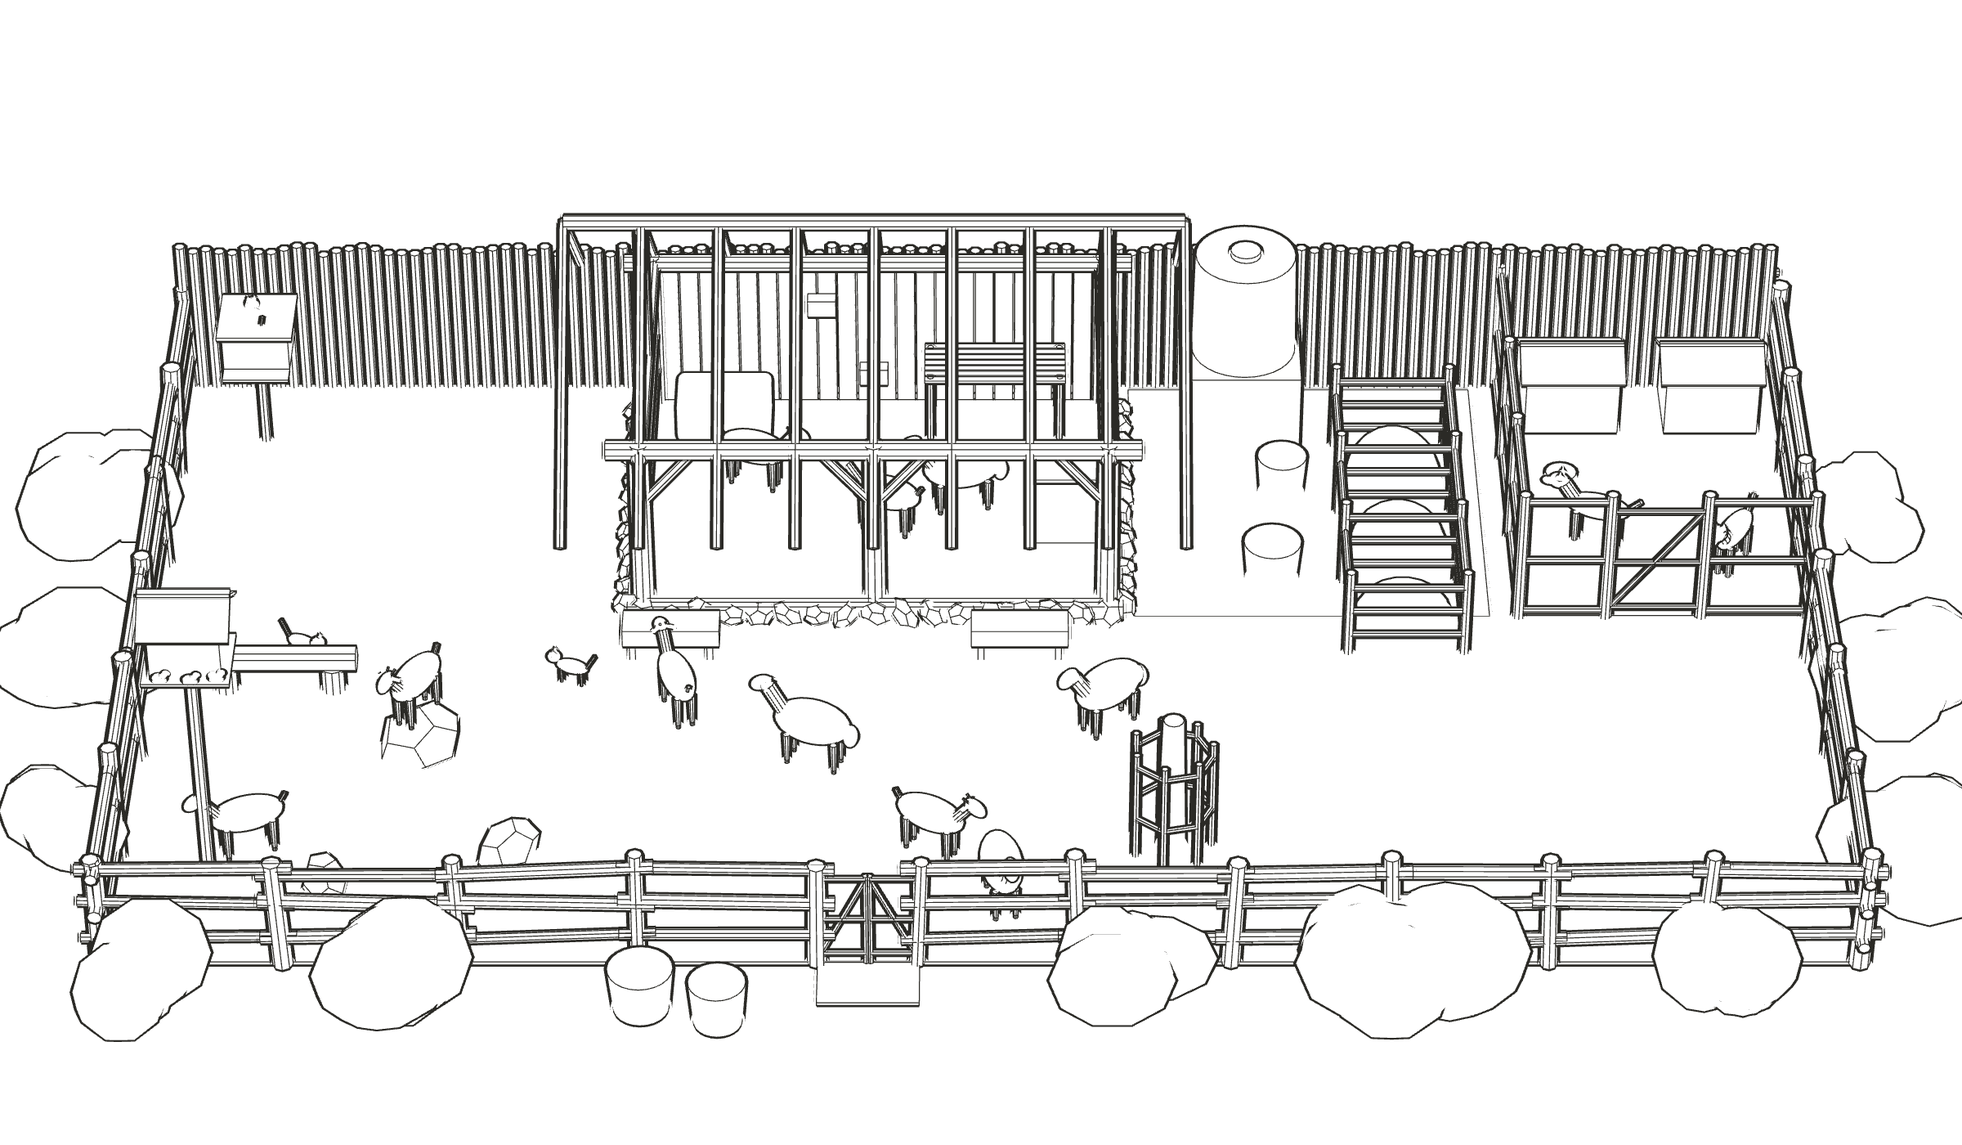
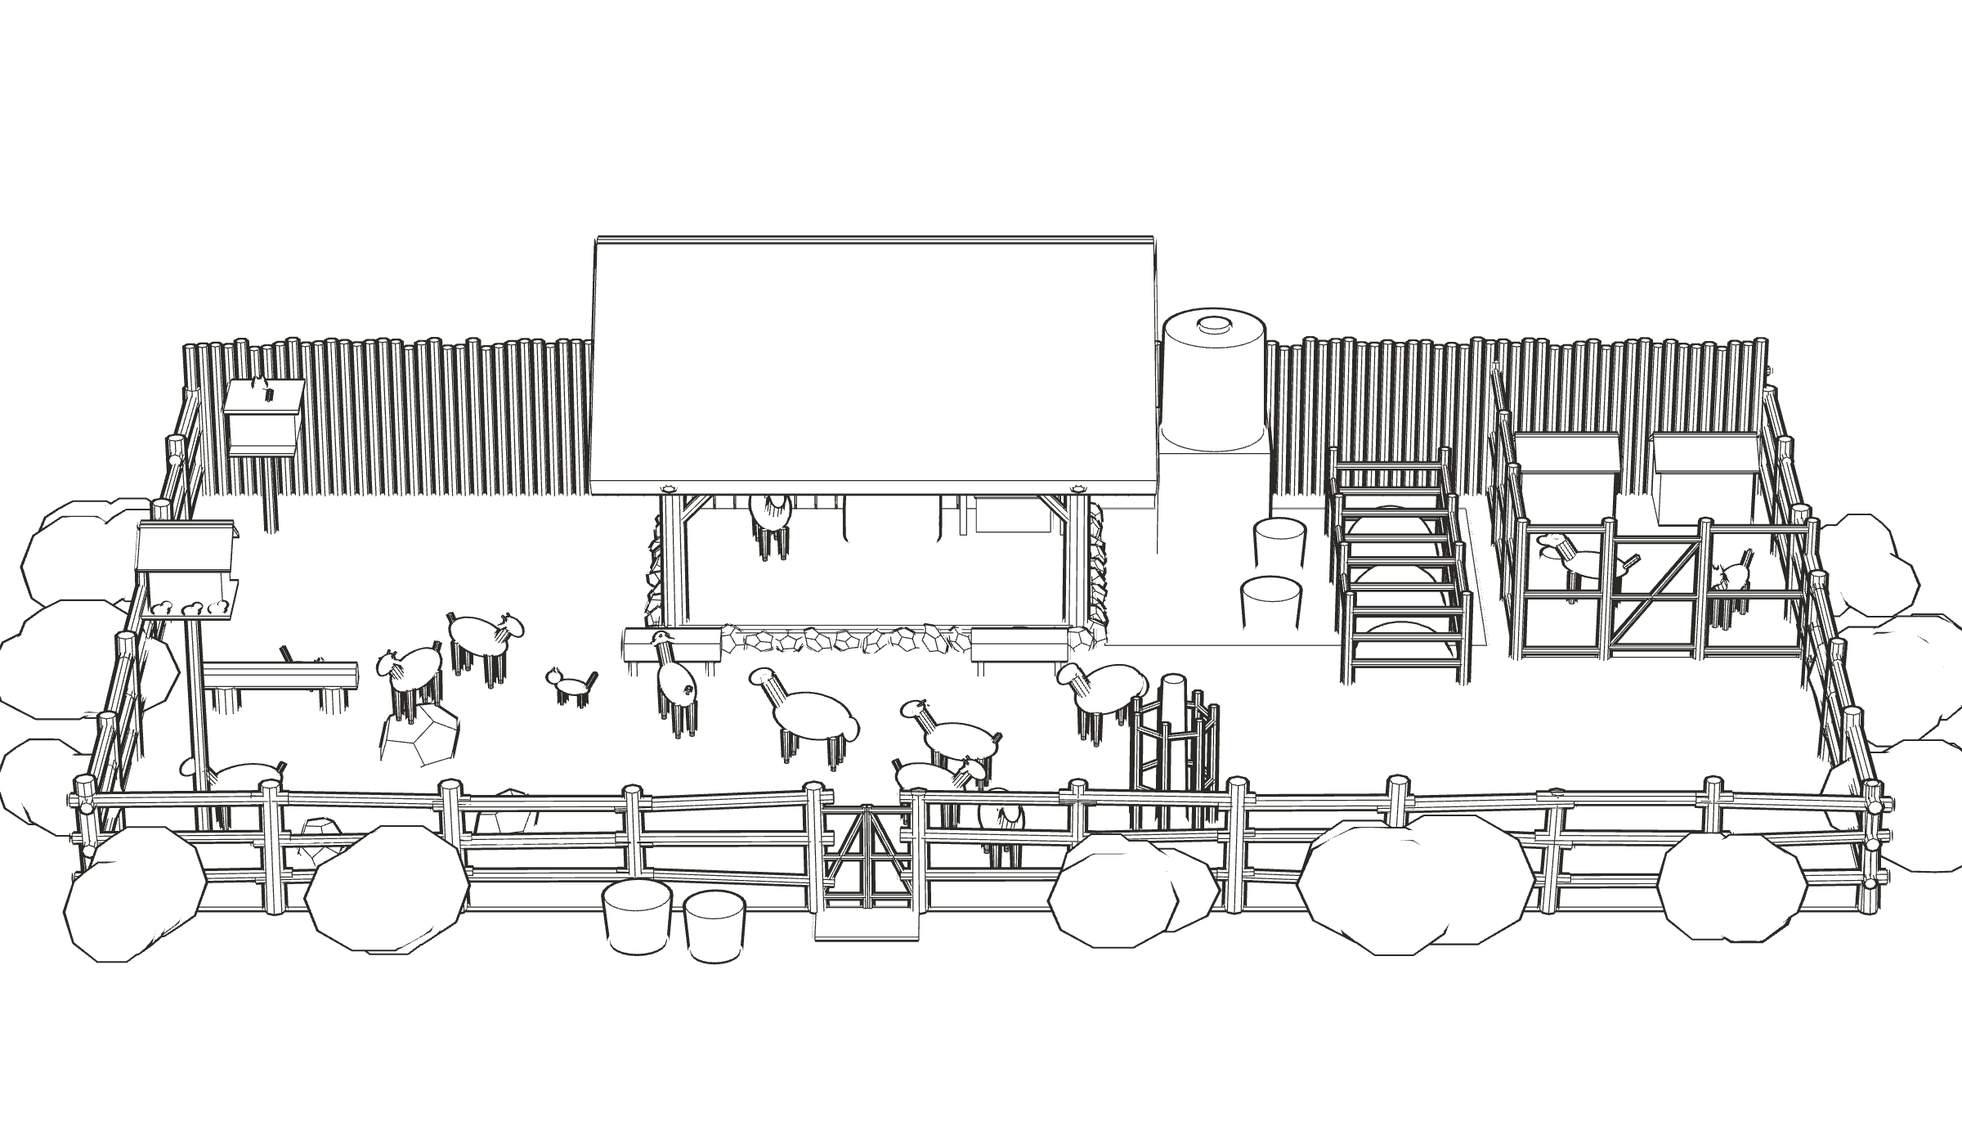
feat(livestock): the shed copied from the photo's, one sheep inside, thatch on; D-045
The founder asked for the shed to look exactly like the reference photo's, with
one sheep. It is now 4.4 x 3.0 m with two braced corner posts, a boarded back and
side, the west end open behind one rail, a straw bale and a plank table with a
basket inside, and the whole shaggy thatch on; the 3D looks lower, at 26 degrees,
to see under the eaves as the photo does.

Claude-Session: https://claude.ai/code/session_01S6J7HfcfzMCDbDDKUuUjeQ

Changed region(s): [[0.0, 0.1843, 1.0, 0.8907], [0.0, 0.5221, 0.0312, 0.5529]]

diff --git a/scripts/site/render/livestock.html b/scripts/site/render/livestock.html
@@ -3,10 +3,11 @@
   /en/livestock's 3D, in the pattern of the studio's (scripts/studio/render/room.html): the livestock yard (D-039 to
   D-044) seen straight on from the paddock, on the white page. Built from src/components/livestock/livestock.json (the
   numbers the 2D draws): one outline, the palisade at the back and one post-and-rail fence round the rest, its rails
-  thick, crooked and lashed with rope as the founder's photo's; inside it the herd's shed, as the photo's shed: dark
-  weathered boards at the back and the east end, the west side open behind two rails, heavy front posts braced to the
-  eaves beam, the steep gable's rafters standing with the thatch off (as the studio's roof), straw, a straw bale, a
-  slatted feed table, a lockable feed bin and the mineral boxes; the village yard with troughs, climbing stones, the
+  thick, crooked and lashed with rope as the founder's photo's; inside it the herd's shed, copied from the photo's
+  shed (D-045): dark weathered boards at the back and the east end, the west end open behind one rail, two heavy
+  corner posts braced to the eaves beam, a steep shaggy thatch on the gable with its ends open on the rafters, and
+  under it one sheep on the straw, a straw bale, a plank table with a basket over a lidded crate, the mineral boxes.
+  The view is low enough to see under the eaves into the shed, as the photo does; the village yard with troughs, climbing stones, the
   guarded shade tree, the dovecote, the cats' house and a bench; the tank, the fodder baskets, the compost bays and
   the guard dogs' run in the back east corner; shrubs round the outside. 6 goats, 4 sheep, 2 dogs, 3 cats and doves,
   in soft overcast light. The page's hero is the founder's photo (D-042), not a render. Rendered three ways:
@@ -168,7 +169,7 @@ function mat(name) {
       fodder: () => std({ color: "#5d7d3a", roughness: 0.9 }),
       trunk: () => std({ color: "#6d5a48", roughness: 0.9 }),
       leaf: () => std({ color: "#55663f", roughness: 0.95, flatShading: true }),
-      thatch: () => std({ map: T.thatch, color: "#a39684", roughness: 1, side: THREE.DoubleSide }), // grey-brown, weathered, as the photo's
+      thatch: () => std({ map: T.thatch, color: "#cbbca5", roughness: 1, side: THREE.DoubleSide }), // grey-brown, weathered, as the photo's
       lawn: () => std({ map: T.grass, roughness: 1 }),
       face: () => std({ color: "#211c19", roughness: 0.85 }),
       horn: () => std({ color: "#7d6e5e", roughness: 0.6 }),
@@ -262,8 +263,9 @@ if (HERO) {
   blk(-L + 0.02, -W + WALL, L - WALL, W, FL, LIT, "litter")
 }
 
-// ------------------------------------------------------------ the herd's shed, as the founder's photo's: wide dark weathered boards set upright at the back and
-// the east end, the west side open behind two rails, heavy barked posts along the open front braced to the eaves beam
+// ------------------------------------------------------------ the herd's shed, copied from the founder's photo's: wide dark weathered boards set upright at the
+// back and the east end, the west end open behind one rail, two heavy barked corner posts along the open front braced
+// to the eaves beam
 function rails(x0, z0, x1, z1, y0, heights, r = 0.035) {
   for (const h of heights) pipe([x0, y0 + h, z0], [x1, y0 + h, z1], r, "pole", 7)
 }
@@ -273,33 +275,33 @@ function gate(x0, z0, x1, z1, y0, h) { // shut: a frame of thin poles with a dia
   pipe([x0, y0 + 0.12, z0], [x1, y0 + h - 0.04, z1], 0.025, "pole", 6)
 }
 {
-  const plank = (x0, z0, x1, z1) => blk(x0, z0, x1, z1, FL, EAVE - 0.04 + (rnd() - 0.5) * 0.06, "plank")
-  for (let x = -L + 0.18; x < L - 0.05; x += 0.21) plank(x, -W, Math.min(x + 0.19, L), -W + WALL)
-  for (let z = -W + WALL; z < W - 0.15; z += 0.21) plank(L - WALL, z, L, Math.min(z + 0.19, W - 0.15))
-  // the posts: the four corners and the middle of the front, heavy and barked; the eaves beam and the plates
-  const posts = [-L + 0.09, 0, L - 0.09]
-  for (const x of posts) pole(x, W - 0.09, 0.11, FL, EAVE + 0.18, 9)
-  for (const x of [-L + 0.09, L - 0.09]) pole(x, -W + 0.09, 0.1, FL, EAVE + 0.12, 9)
-  pipe([-L - 0.25, EAVE + 0.1, W - 0.09], [L + 0.25, EAVE + 0.1, W - 0.09], 0.1, "pole", 9)
-  pipe([-L - 0.2, EAVE + 0.04, -W + 0.09], [L + 0.2, EAVE + 0.04, -W + 0.09], 0.09, "pole", 9)
-  for (const x of [-L + 0.09, L - 0.09]) pipe([x, EAVE + 0.04, -W], [x, EAVE + 0.04, W], 0.08, "pole", 9)
-  for (const x of posts) for (const s of [-1, 1]) { // a knee brace each side of each front post, as the photo's
-    if ((x === posts[0] && s < 0) || (x === posts.at(-1) && s > 0)) continue
-    pipe([x, EAVE - 0.6, W - 0.09], [x + s * 0.55, EAVE + 0.06, W - 0.09], 0.045, "pole", 6)
-  }
-  // the open west side: two barked rails between the corner posts
-  rails(-L + 0.09, -W + 0.09, -L + 0.09, W - 0.09, FL, P.rails, 0.05)
-  // inside, as the photo's: the straw bale, the slatted feed table with hay, the lockable feed bin, the mineral boxes
+  const plank = (x0, z0, x1, z1) => blk(x0, z0, x1, z1, FL, EAVE - 0.04 + (rnd() - 0.5) * 0.08, "plank")
+  for (let x = -L + 0.2; x < L - 0.05; x += 0.22) plank(x, -W, Math.min(x + 0.2, L), -W + WALL)
+  for (let z = -W + WALL; z < W - 0.2; z += 0.22) plank(L - WALL, z, L, Math.min(z + 0.2, W - 0.2))
+  // the corner posts, heavy and barked; the eaves beam along the front, the plate along the back, the tie beams
+  for (const [x, z] of [[-L + 0.1, W - 0.1], [L - 0.1, W - 0.1], [-L + 0.1, -W + 0.1], [L - 0.1, -W + 0.1]]) pole(x, z, 0.12, FL - 0.05, EAVE + 0.15, 9)
+  pipe([-L - 0.35, EAVE + 0.08, W - 0.1], [L + 0.35, EAVE + 0.08, W - 0.1], 0.11, "pole", 9)
+  pipe([-L - 0.3, EAVE + 0.04, -W + 0.1], [L + 0.3, EAVE + 0.04, -W + 0.1], 0.09, "pole", 9)
+  for (const x of [-L + 0.1, L - 0.1]) pipe([x, EAVE + 0.12, -W - 0.3], [x, EAVE + 0.12, W + 0.3], 0.09, "pole", 9)
+  // a knee brace at each front post, up to the eaves beam, and one up the open west end, as the photo's
+  pipe([-L + 0.1, EAVE - 0.65, W - 0.1], [-L + 0.75, EAVE + 0.04, W - 0.1], 0.05, "pole", 6)
+  pipe([L - 0.1, EAVE - 0.65, W - 0.1], [L - 0.75, EAVE + 0.04, W - 0.1], 0.05, "pole", 6)
+  pipe([-L + 0.1, EAVE - 0.65, W - 0.1], [-L + 0.1, EAVE + 0.04, W - 0.75], 0.05, "pole", 6)
+  // the open west end: one barked rail between the corner posts
+  rails(-L + 0.1, -W + 0.1, -L + 0.1, W - 0.1, FL, P.rails, 0.06)
+  // inside, as the photo's: the straw bale, the plank table with its basket over the lidded crate, the mineral boxes
   const b = P.bale
-  soft(b.x0, b.y0, b.x1, b.y1, LIT, LIT + 0.5, 0.07, "hay")
+  soft(b.x0, b.y0, b.x1, b.y1, LIT, LIT + 0.45, 0.07, "hay")
   const t = P.table
-  for (const x of [t.x0 + 0.06, t.x1 - 0.06]) for (const z of [t.y0 + 0.06, t.y1 - 0.06]) pole(x, z, 0.035, LIT, LIT + t.h)
-  for (let z = t.y0; z < t.y1 - 0.02; z += 0.1) blk(t.x0, z, t.x1, z + 0.08, LIT + t.h - 0.03, LIT + t.h, "plank")
-  if (!LINE) soft(t.x0 + 0.1, t.y0 + 0.05, t.x1 - 0.1, t.y1 - 0.05, LIT + t.h, LIT + t.h + 0.2, 0.06, "hay")
+  for (const x of [t.x0 + 0.06, t.x1 - 0.06]) for (const z of [t.y0 + 0.06, t.y1 - 0.06]) blk(x - 0.035, z - 0.035, x + 0.035, z + 0.035, LIT, LIT + t.h, "plank")
+  for (let z = t.y0; z < t.y1 - 0.02; z += 0.15) blk(t.x0, z, t.x1, z + 0.14, LIT + t.h - 0.04, LIT + t.h, "plank")
   const n = P.bin
-  blk(n.x0, n.y0, n.x1, n.y1, LIT, LIT + 0.8, "plank")
-  blk(n.x0 - 0.02, n.y0 - 0.02, n.x1 + 0.02, n.y1 + 0.02, LIT + 0.8, LIT + 0.84, "plank")
-  if (!LINE) blk(n.x0 + 0.05, n.y1 + 0.02, n.x0 + 0.15, n.y1 + 0.04, LIT + 0.62, LIT + 0.72, "dogblack") // its hasp
+  blk(n.x0, n.y0, n.x1, n.y1, LIT, LIT + 0.42, "plank")
+  blk(n.x0 - 0.02, n.y0 - 0.02, n.x1 + 0.02, n.y1 + 0.02, LIT + 0.42, LIT + 0.46, "plank")
+  if (!LINE) blk(n.x0 + 0.05, n.y1 + 0.02, n.x0 + 0.15, n.y1 + 0.04, LIT + 0.3, LIT + 0.4, "dogblack") // its hasp
+  const k = P.basket
+  cyl(k.x, k.y, k.r * 0.8, LIT + t.h, 0.22, "basket", 20, k.r)
+  if (!LINE) soft(k.x - k.r * 0.7, k.y - k.r * 0.7, k.x + k.r * 0.7, k.y + k.r * 0.7, LIT + t.h + 0.12, LIT + t.h + 0.28, 0.06, "hay")
   for (const m of P.minerals) {
     blk(m.x0, m.y0, m.x1, m.y1, LIT + m.z, LIT + m.z + 0.2, "plank")
     if (!LINE) blk(m.x0 + 0.02, m.y0 + 0.02, m.x1 - 0.02, m.y1 - 0.02, LIT + m.z + 0.18, LIT + m.z + 0.21, "mineral")
@@ -398,16 +400,25 @@ for (const s of ST.list) {
   }
 }
 
-// ------------------------------------------------------------ the roof, as the photo's steep gable: the thatch off in this cutaway (as the studio's roof),
-// its pole rafters and ridge left standing so the shape reads and the shed shows inside
+// ------------------------------------------------------------ the roof, as the photo's: a steep, shaggy grey-brown grass thatch on a pole gable, both slopes
+// on, a ragged fringe along the eaves, the gable ends open on their rafters, a collar and a king post. The view is low
+// enough to see under the eaves into the shed, as the photo does.
 {
   const o = S.roof.over, rise = S.roof.ridge - EAVE, R = S.roof.ridge + 0.05
-  for (const x of [-L + 0.09, L - 0.09]) pole(x, 0, 0.07, EAVE, S.roof.ridge)
-  pipe([-L - o, R, 0], [L + o, R, 0], 0.08, "pole", 8)
-  const n = Math.round((S.l + 2 * o) / 0.8)
-  for (let k = 0; k <= n; k++) {
-    const x = -L - o + ((S.l + 2 * o) * k) / n
-    for (const s of [1, -1]) pipe([x, R, 0], [x, EAVE - (o * rise) / W + 0.1, s * (W + o)], 0.045, "pole", 6)
+  const half = W + o, len = Math.hypot(half, rise), a = Math.atan2(rise, half), drop = EAVE + 0.04 // the eaves' edge
+  for (const s of [1, -1]) {
+    const slope = add(new THREE.BoxGeometry(S.l + 2 * o, 0.3, len), "thatch", { pos: [0, EAVE + rise / 2 + 0.16, (s * half) / 2] })
+    slope.rotation.x = s * a
+    if (!LINE) for (let x = -L - o; x < L + o; x += 0.11) { // the ragged fringe
+      const m = add(new THREE.ConeGeometry(0.07, 0.2 + rnd() * 0.14, 5), "thatch", { pos: [x + rnd() * 0.05, drop, s * (half - 0.04)], noEdges: true })
+      m.rotation.x = Math.PI
+    }
+  }
+  pipe([-L - o, R + 0.12, 0], [L + o, R + 0.12, 0], 0.12, "thatch", 8) // the ridge capping
+  for (const x of [-L + 0.1, L - 0.1]) { // each gable: its end rafters, a collar and a king post
+    for (const s of [1, -1]) pipe([x, R, 0], [x, drop + 0.1, s * (W + o)], 0.06, "pole", 7)
+    pipe([x, EAVE + rise * 0.5, -W * 0.5], [x, EAVE + rise * 0.5, W * 0.5], 0.05, "pole", 6)
+    pole(x, 0, 0.06, EAVE + 0.12, R)
   }
 }
 
@@ -557,7 +568,7 @@ if (HERO) {
   // straight on from the paddock, as the studio's front view, but from far off with a long lens and looking down,
   // so the pens show over the fences and the yards keep their proportions; the view offset frames the model
   const target = new THREE.Vector3((Y.x0 + DG.x1) / 2, 0.6, 2.6)
-  const [el, dist] = [THREE.MathUtils.degToRad(38), 70]
+  const [el, dist] = [THREE.MathUtils.degToRad(26), 70]
   camera.position.set(target.x, target.y + dist * Math.sin(el), target.z + dist * Math.cos(el))
   camera.lookAt(target)
 }

diff --git a/src/app/en/livestock/page.tsx b/src/app/en/livestock/page.tsx
@@ -29,15 +29,15 @@ export default function LivestockPage() {
 
       {/* 2D, full screen: the house's plan (src/components/livestock/livestock-plan.tsx), in the text colour. */}
       <DrawingSection id="plans" title="2D">
-        <LivestockPlan title="Plan: one outline 17,200 by 9,600 mm, a pole palisade at the back and a post-and-rail fence round the rest with one gate to the paddock. Inside, the herd’s shed as the founder’s photo’s, 5,000 by 3,600 mm under a thatched gable on a low fieldstone plinth: a boarded back and east end, the west side open behind two rails, the front open under three braced posts; inside a straw bale, a slatted feed table, a lockable feed bin and the two mineral boxes. The village yard for the herd, the cats, the doves and the guests, with troughs, climbing stones, a shade tree, a log bench, a dovecote and a cats’ house on posts; by the shed the tank, fodder baskets and three compost bays, and the guard dogs’ run with two kennels in the back east corner; shrubs round the outside."
+        <LivestockPlan title="Plan: one outline 17,200 by 9,600 mm, a pole palisade at the back and a post-and-rail fence round the rest with one gate to the paddock. Inside, the herd’s shed copied from the founder’s photo, 4,400 by 3,000 mm under a thatched gable on a low fieldstone plinth: a boarded back and east end, the west end open behind one rail, the front open between two braced corner posts; inside a straw bale, a plank table with a basket over a lidded crate, and the two mineral boxes. The village yard for the herd, the cats, the doves and the guests, with troughs, climbing stones, a shade tree, a log bench, a dovecote and a cats’ house on posts; by the shed the tank, fodder baskets and three compost bays, and the guard dogs’ run with two kennels in the back east corner; shrubs round the outside."
           className="h-auto w-full lg:h-full lg:w-auto" />
       </DrawingSection>
 
       {/* 3D, in the 2D section's pattern: the yard seen straight on from the paddock with the roof off, as a line
           drawing, then rendered. Both from scripts/site/render/livestock.html. */}
       <ModelSection line={`${D}/render/livestock-line.png`} real={`${D}/render/livestock-real.webp`} width={2400} height={1400}
-        lineAlt="Line drawing of the livestock yard from the paddock: one outline, the palisade behind and a crooked post-and-rail fence round the rest with a two-leaf gate; the shed with its boarded back and side, its braced front posts and the rafters of its steep gable, a straw bale, a feed table and a feed bin inside; goats and sheep in the yard, one goat on a stone, troughs, a bench, the dovecote and the cats’ house on posts, three cats, the guarded tree; the tank, the baskets, the compost bays and the dogs’ run with two kennels in the back corner."
-        realAlt="The same view rendered: the shed of dark weathered boards with heavy barked posts and the pole rafters of its gable over golden straw, a straw bale and a feed table of hay; thick crooked rails lashed with rope round red-brown earth and straw; brown, black, tan and white goats and white sheep with black faces, a ginger cat on its house and a grey and a black cat, doves on the dovecote, a green tank, baskets of green fodder, the compost bays and a tan and a black dog in their run." />
+        lineAlt="Line drawing of the livestock yard from the paddock: one outline, the palisade behind and a crooked post-and-rail fence round the rest with a two-leaf gate; the shed as in the founder’s photo, its steep thatched gable over a boarded back and side and two braced corner posts, one sheep inside by a straw bale and a table; goats and sheep in the yard, one goat on a stone, troughs, a bench, the dovecote and the cats’ house on posts, three cats, the guarded tree; the tank, the baskets, the compost bays and the dogs’ run with two kennels in the back corner."
+        realAlt="The same view rendered: the shed of dark weathered boards and heavy barked posts under a shaggy grey-brown thatch with a ragged fringe, one white sheep on golden straw by a straw bale and a plank table with a basket; thick crooked rails lashed with rope round red-brown earth and straw; brown, black, tan and white goats and white sheep with black faces, a ginger cat on its house and a grey and a black cat, doves on the dovecote, a green tank, baskets of green fodder, the compost bays and a tan and a black dog in their run." />
     </main>
   )
 }

diff --git a/src/components/livestock/livestock-plan.tsx b/src/components/livestock/livestock-plan.tsx
@@ -95,16 +95,17 @@ export function LivestockPlan({ title, className }: { title: string; className?:
       {[yg.x0, yg.x0 + yg.w].map((x, i) => <Gate key={x} x={x} y={Y} w={yg.w / 2} c={[i ? -1 : 1, 0]} o={[0, -1]} />)}
 
       {/* The shed, as the photo's, on its low fieldstone plinth: the thatch's overhang dashed, the back and the east end
-          boarded, the west side open behind two rails, the front open under its braced posts (dots) */}
+          boarded, the west end open behind one rail, the front open between its two braced corner posts (dots) */}
       <rect {...rect(-L - shelter.roof.over, -W - shelter.roof.over, L + shelter.roof.over, W + shelter.roof.over)} {...dashed} />
       <rect {...rect(-L - E, -W - E, L + E, W + E)} {...fine} />
       <rect {...rect(-L, -W, L, -W + WALL)} {...solid} />
       <rect {...rect(L - WALL, -W, L, W)} {...solid} />
       <rect {...rect(-L + 0.02, -W + WALL, -L + 0.02 + FENCE, W - 0.1)} {...solid} />
-      {[-L + 0.09, 0, L - 0.09].map((x) => <circle key={x} cx={f(x)} cy={f(W - 0.09)} r={0.1} {...solid} />)}
-      <circle cx={f(-L + 0.09)} cy={f(-W + 0.09)} r={0.1} {...solid} />
+      {[-L + 0.09, L - 0.09].map((x) => <circle key={x} cx={f(x)} cy={f(W - 0.09)} r={0.11} {...solid} />)}
+      <circle cx={f(-L + 0.09)} cy={f(-W + 0.09)} r={0.11} {...solid} />
+      <circle cx={pens.basket.x} cy={pens.basket.y} r={pens.basket.r} {...fine} />
 
-      {/* Inside, as the photo's: the straw bale, the slatted feed table, the lockable feed bin; the goats' mineral box
+      {/* Inside, as the photo's: the straw bale, the plank table with its basket over the lidded crate; the goats' mineral box
           high on the back wall and the sheep's low */}
       <rect {...box(pens.bale)} rx={0.08} {...line} />
       <rect {...box(pens.table)} {...line} />

diff --git a/src/lib/design-blur.generated.ts b/src/lib/design-blur.generated.ts
@@ -11,7 +11,7 @@ export const DESIGN_BLUR: Record<string, string> = {
[8 lines of base64/hex data omitted]

diff --git a/study/execution/decision-log.md b/study/execution/decision-log.md
@@ -162,3 +162,6 @@ Context: the founder kept our design ("ours was good") and asked to copy the pho
 
 **D-044 · 2026-10-29 · The herd sleeps in a shed like the founder's photo's, in place of the open hall and its feed store.**
 Context: the founder asked for the herd's building to be a shed like the one in the reference photo. Decision: `src/components/livestock/livestock.json` replaces D-039's 7.0 m hall, its separate feed store, the bamboo sleeping platform, the hay racks and the front gates with one shed, 5.0 x 3.6 m (18 m2 for 10 head plus kids [A]), under a steep thatched gable that overhangs 0.7 m: a back and an east end of dark weathered upright boards, the west side open behind two rails, the front open under three heavy posts braced to the eaves beam, on a low fieldstone plinth deep in straw. Inside, as in the photo: a straw bale, a slatted feed table that keeps the hay off the floor, and a lockable feed bin for the feed (against theft and against the herd). The goats' mineral box stays high and the sheep's low. Kidding: two hurdles close off a corner when a doe or a ewe is due. The 3D shows the gable's rafters with the thatch off, as the studio's roof, so the shed shows inside. The rest of the yard is unchanged (D-039 to D-043). With the sleeping platform gone, the herd lies on deep straw on the raised plinth: the vet should confirm that is dry enough (livestock-plan §7).
+
+**D-045 · 2026-10-29 · The herd's shed is copied from the photo's: smaller, one sheep inside, the thatch on.**
+Context: the founder asked for the shed to look exactly like the one in the reference photo, with one sheep inside. Decision: `src/components/livestock/livestock.json` makes the shed 4.4 x 3.0 m (13 m2, 10 head at 1.2 m2 [A]) with two heavy corner posts on the open front, each braced to the eaves beam, a back and an east end of dark upright boards, and the west end open behind one rail. Inside, as in the photo: one sheep, a straw bale in the middle, and a plank table with a basket of hay over a lidded crate that locks for the feed. The 3D now shows the whole thatch, steep, shaggy and grey-brown with a ragged fringe and open gable ends, and looks down at 26 degrees instead of 38, low enough to see under the eaves into the shed as the photo does; this replaces D-044's rafters-only roof. At 13 m2 the shed holds the 10 head with nothing to spare: kids born in it need the yard by day.
